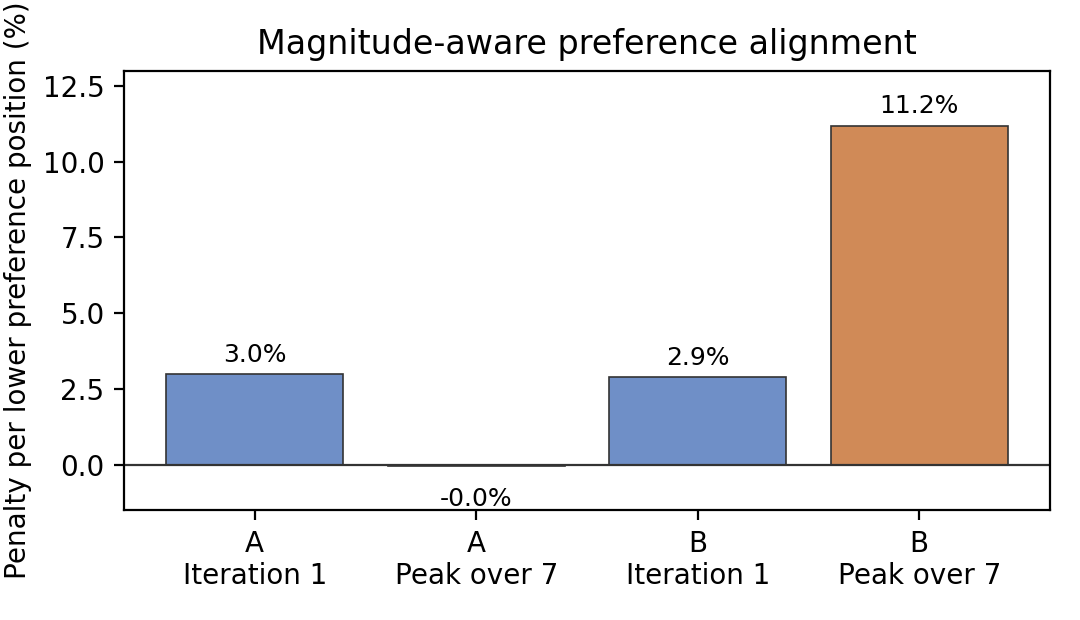
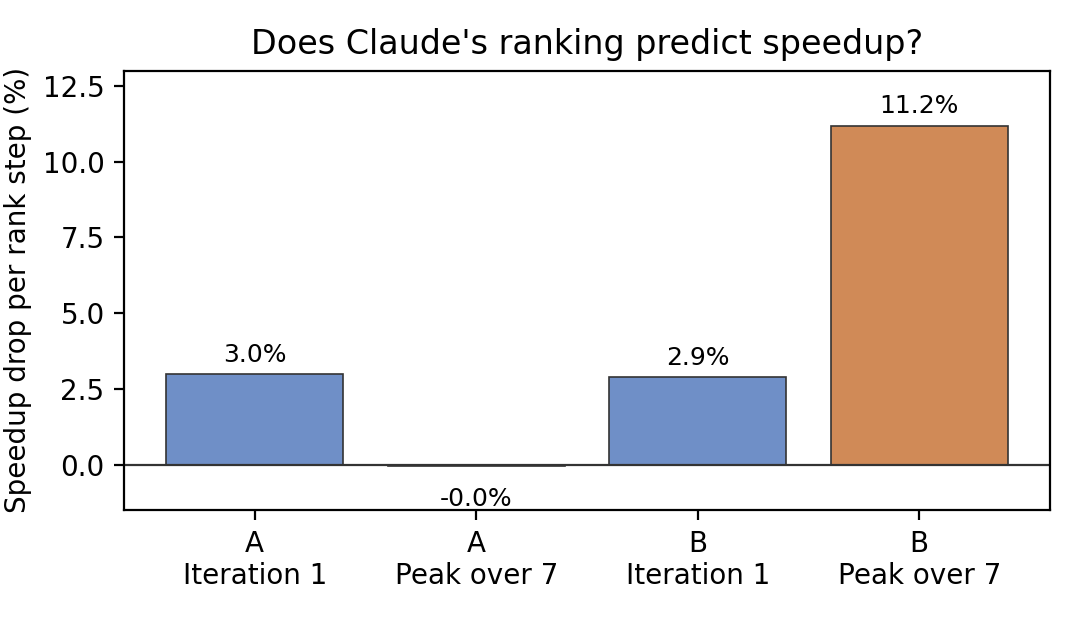
Add per-kernel penalty plot and update analysis artifacts

Changed region(s): [[0.2139, 0.0306, 0.8556, 0.0919], [0.0, 0.0, 0.0306, 0.95]]

diff --git a/analysis/scripts/compute_metrics.py b/analysis/scripts/compute_metrics.py
@@ -119,8 +119,8 @@ def plot_preference_penalty(metrics: list[dict]) -> None:
     fig, ax = plt.subplots(figsize=(5.4, 3.1))
     ax.axhline(0, color="#333333", linewidth=0.8)
     bars = ax.bar(labels, values, color=colors, edgecolor="#333333", linewidth=0.6)
-    ax.set_ylabel("Penalty per lower preference position (%)")
-    ax.set_title("Magnitude-aware preference alignment")
+    ax.set_ylabel("Speedup drop per rank step (%)")
+    ax.set_title("Does Claude's ranking predict speedup?")
     for bar, value in zip(bars, values):
         ax.text(
             bar.get_x() + bar.get_width() / 2,
@@ -150,8 +150,8 @@ def plot_top_choice_regret(regret_summary: list[dict]) -> None:
 
     fig, ax = plt.subplots(figsize=(5.4, 3.1))
     bars = ax.bar(labels, values, color=colors, edgecolor="#333333", linewidth=0.6)
-    ax.set_ylabel("Mean regret from first preference (%)")
-    ax.set_title("Cost of following Claude's first-preferred direction")
+    ax.set_ylabel("Speedup left on table by following P1 (%)")
+    ax.set_title("Cost of following Claude's top pick (lower = better)")
     for bar, value in zip(bars, values):
         ax.text(
             bar.get_x() + bar.get_width() / 2,
@@ -165,6 +165,58 @@ def plot_top_choice_regret(regret_summary: list[dict]) -> None:
     fig.tight_layout()
     fig.savefig(PLOTS / "top_choice_regret.pdf")
     fig.savefig(PLOTS / "top_choice_regret.png", dpi=200)
+    plt.close(fig)
+
+
+def plot_per_kernel_penalty(per_kernel_rows: list[dict]) -> None:
+    kernels = ["bitonic-sort", "histogram", "softmax", "stencil3d"]
+    kernel_labels = ["bitonic-sort", "histogram", "softmax", "stencil3d"]
+    conditions = ["A", "B"]
+    cond_titles = {"A": "Condition A (default prompt)", "B": "Condition B (long-horizon prompt)"}
+
+    col_iter1 = "#6f8fc7"
+    col_peak7 = "#d08a57"
+    bar_width = 0.35
+
+    fig, axes = plt.subplots(1, 2, figsize=(7.2, 3.4), sharey=True)
+    for ax, cond in zip(axes, conditions):
+        data = {r["kernel"]: r for r in per_kernel_rows if r["condition"] == cond}
+        xs = range(len(kernels))
+        iter1_vals = [data[k]["iter1_penalty_percent"] for k in kernels]
+        peak7_vals = [data[k]["peak7_penalty_percent"] for k in kernels]
+
+        bars1 = ax.bar(
+            [x - bar_width / 2 for x in xs], iter1_vals,
+            width=bar_width, label="Iteration 1",
+            color=col_iter1, edgecolor="#333333", linewidth=0.6,
+        )
+        bars2 = ax.bar(
+            [x + bar_width / 2 for x in xs], peak7_vals,
+            width=bar_width, label="Peak over 7",
+            color=col_peak7, edgecolor="#333333", linewidth=0.6,
+        )
+        ax.axhline(0, color="#333333", linewidth=0.8)
+        ax.set_xticks(list(xs))
+        ax.set_xticklabels(kernel_labels, fontsize=8, rotation=15, ha="right")
+        ax.set_title(cond_titles[cond], fontsize=9)
+        ax.set_xlabel("")
+
+        for bar, val in list(zip(bars1, iter1_vals)) + list(zip(bars2, peak7_vals)):
+            offset = 0.4 if val >= 0 else -1.2
+            va = "bottom" if val >= 0 else "top"
+            ax.text(
+                bar.get_x() + bar.get_width() / 2,
+                val + offset,
+                f"{val:.1f}",
+                ha="center", va=va, fontsize=6.5,
+            )
+
+    axes[0].set_ylabel("Speedup drop per rank step (%)")
+    axes[0].legend(fontsize=8, frameon=False, loc="upper right")
+    fig.suptitle("Per-kernel preference alignment: Iteration 1 vs. Peak over 7", fontsize=10)
+    fig.tight_layout()
+    fig.savefig(PLOTS / "per_kernel_penalty.pdf")
+    fig.savefig(PLOTS / "per_kernel_penalty.png", dpi=200)
     plt.close(fig)
 
 
@@ -354,7 +406,8 @@ def main() -> None:
     plot_preference_penalty(metric_rows)
     plot_top_choice_regret(regret_summary)
     plot_trajectory_cases()
-    for name in ["preference_penalty.pdf", "top_choice_regret.pdf", "trajectory_cases.pdf"]:
+    plot_per_kernel_penalty(per_kernel_penalty_rows)
+    for name in ["preference_penalty.pdf", "top_choice_regret.pdf", "trajectory_cases.pdf", "per_kernel_penalty.pdf"]:
         shutil.copy2(PLOTS / name, ASSETS / name)
 
     lines = [